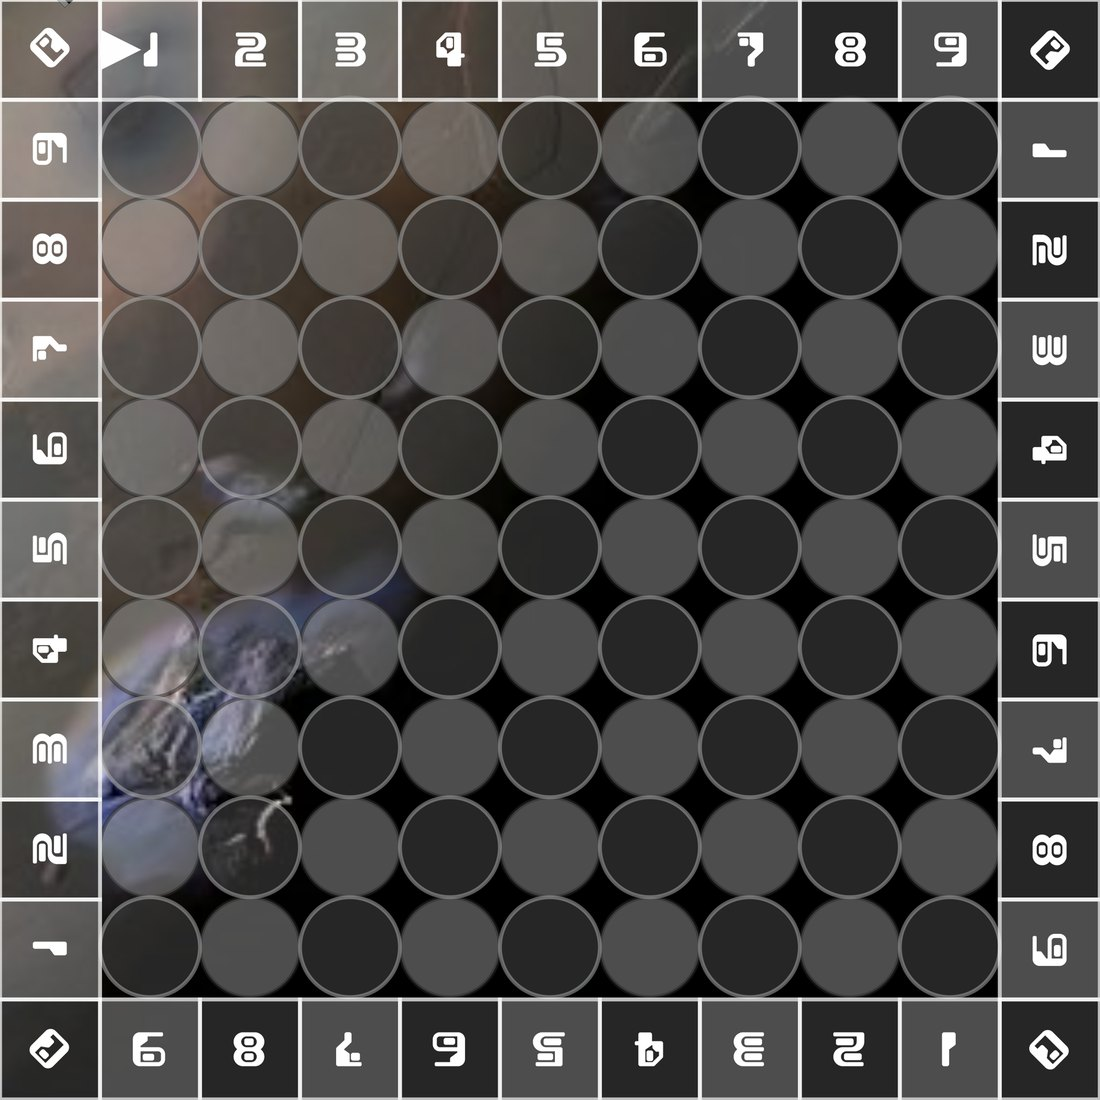
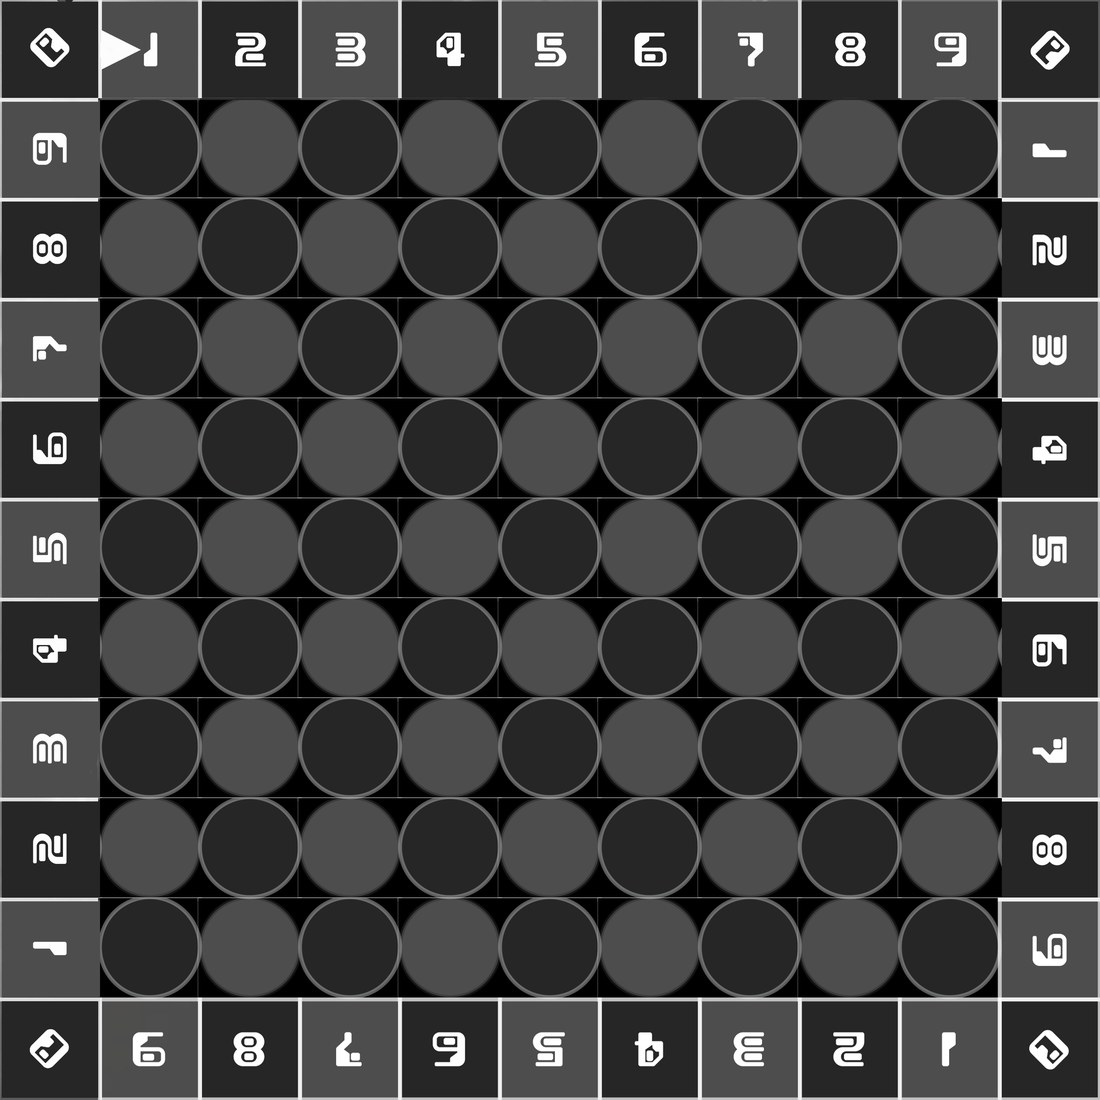
fix(gardensofio): diagonals start next to the Martian, flat board art, horizontal picker
- Diagonal lines start on the circle diagonally adjacent to the Martian's square (not one circle in); tests updated
- Board and special action strip repainted flat: the Io photo glare on the left side is removed, the shaded balls are flat
- Flower picker is a single horizontal row again, shrinking to the board width
- Notes and help updated

diff --git a/games/gardensofio/bga/gardensofio.css b/games/gardensofio/bga/gardensofio.css
@@ -213,12 +213,13 @@
     position: absolute;
     z-index: 30;
     display: flex;
-    flex-wrap: wrap;
+    flex-wrap: nowrap;
     justify-content: center;
-    gap: 6px;
-    width: min(100%, 244px);
+    gap: 4px;
+    width: max-content;
+    max-width: 100%;
     box-sizing: border-box;
-    padding: 8px;
+    padding: 6px;
     border: 2px solid #5b4a2b;
     border-radius: 3px;
     background: #1b1714;
@@ -229,9 +230,10 @@
     flex-direction: column;
     align-items: center;
     justify-content: center;
-    min-width: 66px;
+    flex: 1 1 0;
+    min-width: 0;
     min-height: 84px;
-    padding: 4px 6px;
+    padding: 4px 3px;
     font-size: 21px;
     border: 2px solid #5b4a2b;
     border-radius: 3px;
@@ -243,7 +245,9 @@
 .gio_color_btn img {
     display: block;
     width: 45px;
-    height: 50px;
+    max-width: 100%;
+    height: auto;
+    aspect-ratio: 160 / 176;
 }
 
 .gio_color_btn:disabled {

diff --git a/games/gardensofio/tests/rules_test.php b/games/gardensofio/tests/rules_test.php
@@ -54,14 +54,22 @@ check(Rules::lines(0)[0] === ['0,0', '1,1', '2,2', '3,3', '4,4', '5,5', '6,6', '
 $empty = [];
 $cand = Rules::candidates(5, $empty); // top row, column 4
 check(in_array('0,4', $cand, true) && in_array('8,4', $cand, true), 'orthogonal line from top side reaches bottom');
-check(in_array('1,3', $cand, true) && in_array('1,5', $cand, true), 'diagonals from top side');
-check(!in_array('0,3', $cand, true), 'no line along the track row');
+// Diagonals leave the Martian directly: they start on the circles diagonally next to its square.
+check(in_array('0,3', $cand, true) && in_array('1,2', $cand, true) && in_array('3,0', $cand, true), 'down-left diagonal from top side');
+check(in_array('0,5', $cand, true) && in_array('1,6', $cand, true) && in_array('3,8', $cand, true), 'down-right diagonal from top side');
+check(!in_array('1,3', $cand, true) && !in_array('1,5', $cand, true), 'no circle one row in on the diagonal lines');
+// The leftmost top space has no down-left diagonal, only the orthogonal and the down-right diagonal.
+$left = Rules::candidates(1, []);
+check(in_array('0,0', $left, true) && in_array('0,1', $left, true) && in_array('1,2', $left, true) && !in_array('1,1', $left, true), 'top-left side space: orthogonal plus one diagonal');
+// A right side space: diagonals start above and below the entry circle.
+$right = Rules::candidates(15, []); // right column, row 4
+check(in_array('4,8', $right, true) && in_array('3,8', $right, true) && in_array('5,8', $right, true) && in_array('2,7', $right, true) && in_array('6,7', $right, true), 'right side space lines');
 
 // Trees block: a tree at 3,4 blocks the orthogonal line beyond it.
 $g = ['3,4' => ['k' => 't']];
 $cand = Rules::candidates(5, $g);
 check(in_array('2,4', $cand, true) && !in_array('3,4', $cand, true) && !in_array('4,4', $cand, true), 'tree blocks its line');
-check(in_array('1,3', $cand, true) && in_array('2,2', $cand, true), 'diagonals unaffected by a tree on the orthogonal');
+check(in_array('0,3', $cand, true) && in_array('2,1', $cand, true), 'diagonals unaffected by a tree on the orthogonal');
 
 // Flowers do not block, but occupied circles are not candidates.
 $g = ['2,4' => ['k' => 'f', 'c' => 'red', 'o' => 1]];

diff --git a/games/gardensofio/bga/modules/php/Rules.php b/games/gardensofio/bga/modules/php/Rules.php
@@ -112,16 +112,27 @@ final class Rules
     }
 
     /**
-     * Garden lines radiating from a track space, each as a list of keys "r,c" starting at the entry circle.
+     * Garden lines radiating from a track space, each as a list of keys "r,c" in order from the Martian.
+     * The orthogonal line starts on the circle straight in front of the Martian's square. A diagonal line
+     * starts on the circle diagonally next to the Martian's square (so it leaves the Martian directly, not
+     * one circle further in). A corner has a single diagonal that starts on the corner circle.
      * A line runs until the edge of the garden.
      *
      * @return array<int,array<int,string>>
      */
     public static function lines(int $p): array
     {
-        [$r0, $c0, $dirs] = self::launcher($p);
+        [$er, $ec, $dirs] = self::launcher($p);
+        $normal = $dirs[0];
         $lines = [];
         foreach ($dirs as [$dr, $dc]) {
+            $r0 = $er;
+            $c0 = $ec;
+            if (count($dirs) > 1 && ($dr !== $normal[0] || $dc !== $normal[1])) {
+                // diagonal: step sideways from the entry circle by the tangent component
+                $r0 = $er + ($dr - $normal[0]);
+                $c0 = $ec + ($dc - $normal[1]);
+            }
             $line = [];
             $r = $r0;
             $c = $c0;

diff --git a/games/gardensofio/RULES_NOTES.md b/games/gardensofio/RULES_NOTES.md
@@ -27,7 +27,7 @@ Each turn, in this order:
    - Move your Martian 5 spaces forward. This is the only special action that scores (5 points). It also counts for the lap bonus.
 2. **Plant.** From your Martian, a straight line runs diagonally or orthogonally into the garden. Plant one of your flowers on any empty circle on those lines, before the first tree. Flowers do not block lines.
    - Corner spaces have only the diagonal, because orthogonal lines from a corner run along the track (rulebook tip 6).
-   - Side spaces have three lines: orthogonal and both diagonals.
+   - Side spaces have three lines: the orthogonal line starts on the circle straight in front of the Martian, and the two diagonals start on the circles diagonally next to the Martian's square, so they leave the Martian directly (a Martian above column 4 can plant on (0,3), (1,2), (2,1)... and (0,5), (1,6)...).
    - If there is no empty circle on any line, skip to step 4 as if you had scored 1 point.
 3. **Score.** Count the flowers of the same colour connected orthogonally to the one you planted, including it (diagonals do not connect). This is your score for the turn.
 4. **Move.** Move your Martian forward by your score. Spaces with other Martians are passed over without being counted, and the Martian cannot end on an occupied space.
